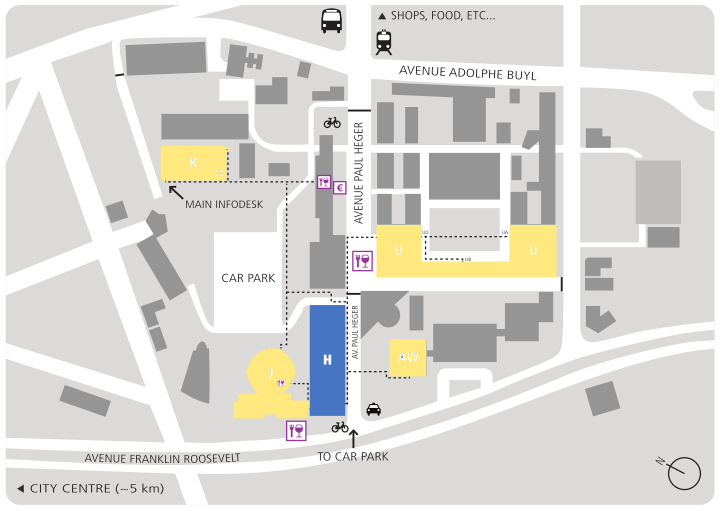
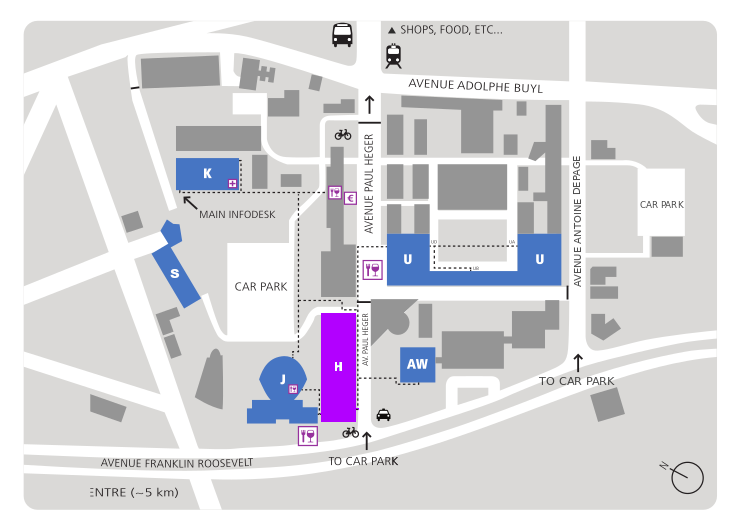
Updated for FOSDEM 2020

diff --git a/FOSDEM/FOSDEM.WindowsPhone/MainPage.xaml b/FOSDEM/FOSDEM.WindowsPhone/MainPage.xaml
@@ -45,7 +45,7 @@
         </ItemsPanelTemplate>
         <local:BooleanToVisibilityConverter x:Key="TrueToVisibleConverter" />
     </Page.Resources>
-    <Pivot Name="PivotMain" Title="FOSDEM'18">
+    <Pivot Name="PivotMain" Title="FOSDEM'2020">
         <PivotItem Header="Welcome">
             <Grid>
                 <Grid.RowDefinitions>
@@ -57,7 +57,7 @@
                 <Grid>
                     <Image Source="Assets/fosdem-home-visual.jpg" Height="100" Stretch="Uniform" />
                     <Image Source="Assets/fosdembg.png" Height="50" Stretch="Uniform" />
-                    <TextBlock Text="Brussels / 3 &amp; 4 February 2018" 
+                    <TextBlock Text="Brussels / 1 &amp; 2 February 2020" 
                             TextAlignment="Center" 
                             VerticalAlignment="Bottom" 
                             Foreground="White"

diff --git a/FOSDEM/FOSDEM.Shared/App.xaml.cs b/FOSDEM/FOSDEM.Shared/App.xaml.cs
@@ -217,7 +217,7 @@ namespace FOSDEM
             try
             {
                 HttpClient http = new HttpClient();
-                string url = "https://fosdem.org/2019/schedule/xml";
+                string url = $"https://fosdem.org/{DateTime.Now.Year}/schedule/xml";
                 HttpResponseMessage response = await http.GetAsync(url);
                 string xml = await response.Content.ReadAsStringAsync();
 

diff --git a/FOSDEM/FOSDEM.Shared/Model/Event.cs b/FOSDEM/FOSDEM.Shared/Model/Event.cs
@@ -67,6 +67,8 @@ namespace FOSDEM.Model
                         return @"Assets/buildingh.png";
                     case 'U':
                         return @"Assets/buildingu.png";
+                    case 'S':
+                        return @"Assets/buildings.png";
                     default:
                         return @"Assets/buildingaw.png";
                 }
